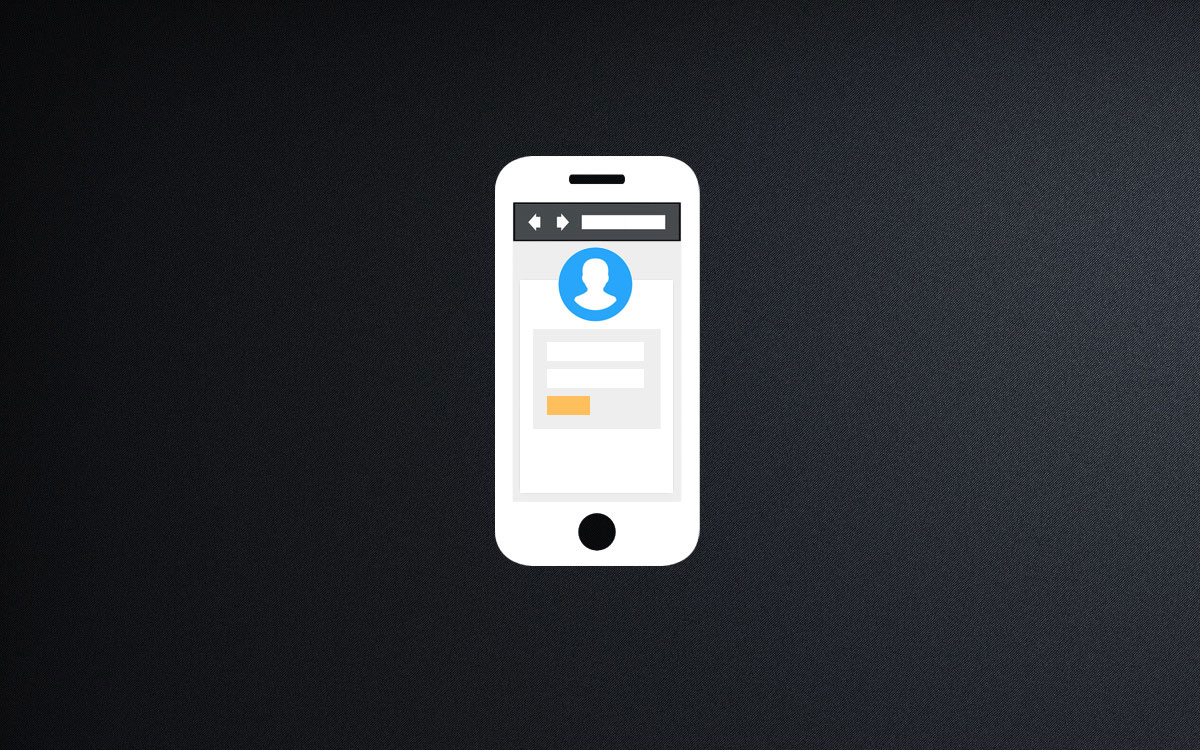
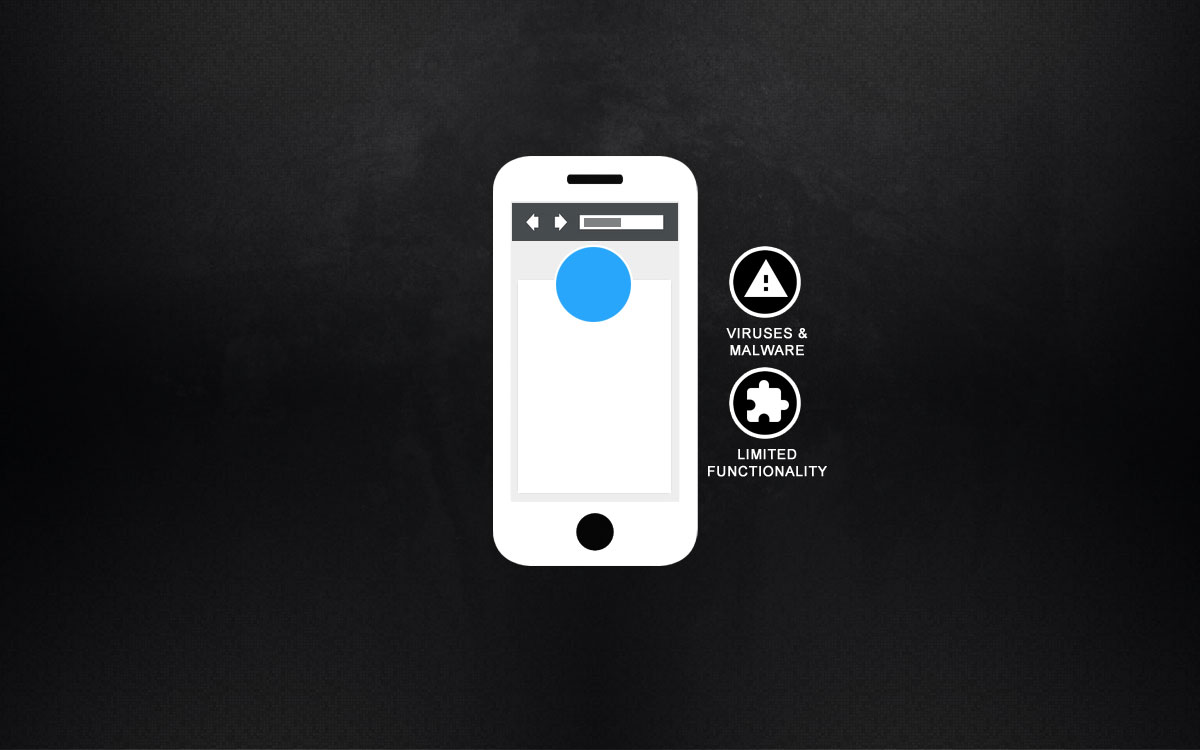
"How it works" slides are ready. Mobile styles added

diff --git a/index.html b/index.html
@@ -18,7 +18,7 @@
         <div class="cd-section" id="headers">
             <div class="header-3">
                 <nav class="navbar navbar-transparent navbar-absolute navbar-expand-lg">
-                    <div class="container col-sm-10">
+                    <div class="container col-sm-11">
                         <!-- Brand and toggle get grouped for better mobile display -->
                         <div class="navbar-translate">
                             <!-- <a class="navbar-brand" href="http://wrioos.com">WRIO Internet OS</a> -->
@@ -97,7 +97,7 @@
                                           <div class="col-md-12 ml-auto mr-auto">
                                               <div class="buttons carousel-control-next">
                                                   <a href="#carousel_ids" role="button" data-slide="next" class="btn btn-danger btn-lg">
-                                                      How web 2.0 works&nbsp;&nbsp;&nbsp;&nbsp;<i class="material-icons">build</i>
+                                                      How web 2.0 works&nbsp;&nbsp;&nbsp;&nbsp;<i class="material-icons">settings</i>
                                                   </a>
                                               </div>
                                           </div>
@@ -112,15 +112,17 @@
                                     <div class="row height_fix">
                                         <div class="col-sm-12 col-md-8 col-lg-6 mr-auto text-left">
                                             <h1 class="title">How web 2.0 works</h1>
-                                            <h2 class="title">1. Request to the website server</h2>
+                                            <h2 class="title">Request to the website server</h2>
                                             <h4><i class="material-icons">clear</i> Fishing alert<br />
-                                            <i class="material-icons">clear</i> Low trust online: scammers & spam</h4>
+                                            <i class="material-icons">clear</i> Low trust online: scammers & spam
+                                            <br />
+                                            <i class="material-icons">clear</i> Censorship, easy to block</h4>
                                         </div>
                                         <div class="bottom">
                                           <div class="col-md-12 ml-auto mr-auto">
                                               <div class="buttons carousel-control-next">
                                                   <a href="#carousel_ids" role="button" data-slide="next" class="btn btn-danger btn-lg">
-                                                      Next&nbsp;&nbsp;&nbsp;&nbsp;<i class="material-icons">build</i>
+                                                      Next&nbsp;&nbsp;&nbsp;&nbsp;<i class="material-icons">play_arrow</i>
                                                   </a>
                                               </div>
                                           </div>
@@ -135,7 +137,7 @@
                                     <div class="row height_fix">
                                         <div class="col-sm-12 col-md-8 col-lg-6 mr-auto text-left">
                                             <h1 class="title">How web 2.0 works</h1>
-                                            <h2 class="title">2. Loading HTML markup, styles and javascript</h2>
+                                            <h2 class="title">Loading HTML markup, styles and javascript</h2>
                                             <h4><i class="material-icons">clear</i> Insecure: viruses & malware. 71% of websites contain some malicious code were in fact legitimate websites that had been compromised in some way
                                             <br /><i class="material-icons">clear</i> Functionality limited by website owner</h4>
                                         </div>
@@ -143,7 +145,7 @@
                                           <div class="col-md-12 ml-auto mr-auto">
                                               <div class="buttons carousel-control-next">
                                                   <a href="#carousel_ids" role="button" data-slide="next" class="btn btn-danger btn-lg">
-                                                      Next&nbsp;&nbsp;&nbsp;&nbsp;<i class="material-icons">build</i>
+                                                      Next&nbsp;&nbsp;&nbsp;&nbsp;<i class="material-icons">play_arrow</i>
                                                   </a>
                                               </div>
                                           </div>
@@ -158,20 +160,18 @@
                                     <div class="row height_fix">
                                         <div class="col-sm-12 col-md-8 col-lg-6 mr-auto text-left">
                                             <h1 class="title">How web 2.0 works</h1>
-                                            <h2 class="title">3. Authentication</h2>
+                                            <h2 class="title">Authentication</h2>
                                             <h4>User data stored on the server
                                               <br>
                                               <i class="material-icons">clear</i> Hacking and leaking personal data risks
                                               <br />
-                                              <i class="material-icons">clear</i> Surveillance, no privacy
-                                              <br />
-                                              <i class="material-icons">clear</i> Censorship, easy to block</h4>
+                                              <i class="material-icons">clear</i> Surveillance, no privacy</h4>
                                         </div>
                                         <div class="bottom">
                                           <div class="col-md-12 ml-auto mr-auto">
                                               <div class="buttons carousel-control-next">
                                                   <a href="#carousel_ids" role="button" data-slide="next" class="btn btn-danger btn-lg">
-                                                      Next&nbsp;&nbsp;&nbsp;&nbsp;<i class="material-icons">build</i>
+                                                      Next&nbsp;&nbsp;&nbsp;&nbsp;<i class="material-icons">play_arrow</i>
                                                   </a>
                                               </div>
                                           </div>
@@ -186,7 +186,7 @@
                                     <div class="row height_fix">
                                         <div class="col-sm-12 col-md-8 col-lg-6 mr-auto text-left">
                                             <h1 class="title">How web 2.0 works</h1>
-                                            <h2 class="title">4. Getting data from database</h2>
+                                            <h2 class="title">Getting data from database</h2>
                                             <h4><i class="material-icons">clear</i> Website information isolation
                                             <br />
                                             <i class="material-icons icon-fix">clear</i> Unstructured data. Search engines have to <a href="https://en.wikipedia.org/wiki/Parsing" target="_blank">parse</a>
@@ -370,7 +370,7 @@
                             </div>
                         </div>
                         <div class="carousel-item embed-responsive-item">
-                            <div class="page-header header-filter" style="background: url('assets/img/6.jpg') center center;background-size:cover;">
+                            <div class="page-header header-filter" style="background: url('assets/img/team.jpg') center center;background-size:cover;">
                                 <div class="container">
                                     <div class="row height_fix">
                                         <div class="col-sm-12 col-md-8 col-lg-6 mr-auto text-left">

diff --git a/assets/css/landing.css b/assets/css/landing.css
@@ -16,8 +16,8 @@ body{font-size:14px}
   .carousel-inner ul a{color:#e89b35;font-size:1.125rem!important}
     .carousel-inner ul a:hover{text-decoration:underline}
   .carousel-inner .material-icons{font-size:1.125rem;font-weight:bold;position:relative;top:2px}
-  .carousel-inner .carousel-control-next .btn{margin-top:36px;padding:24px 36px}
-  #carousel_ids a{font-size:1.5em;z-index:99}
+  #carousel_ids a{z-index:99}
+  .bottom a.btn-lg{font-size:1.5em}
   #accordion .card-header{background:none;border:none;margin:8px 0;padding:8px}
     #accordion .card-header h6{margin:0;padding:5px 10px}
     #accordion .card-collapse .card-header a{color:#fff;text-transform:capitalize}
@@ -31,6 +31,8 @@ h4 a,h4 a:visited{font-size:1.2rem!important;color:#ffab00}
 h4 a:hover{color:#ffab00;text-decoration:underline}
 h5{color:#ccc}
 .page-header .title{font-weight:normal}
+.bottom a .material-icons{position:relative!important;top:-1px!important}
+.footer{padding:4px 0}
 
 @media all and (max-width: 992px) {
   h1{font-size:2em!important}
@@ -38,8 +40,8 @@ h5{color:#ccc}
   h4{font-size:1.1em!important}
   .carousel-inner ul{font-size:1.1em!important}
   .carousel-inner ul a{font-size:1em!important}
-  #carousel_ids a{font-size:1em}
-  .carousel-inner .carousel-control-next .btn{margin-top:18px;padding:12px 24px}
+  .bottom a.btn-lg{font-size:1.2em;line-height:2.4}
+  .carousel-inner .carousel-control-next .btn{padding:12px 24px}
   .navbar .navbar-nav .nav-item .nav-link{font-size:.9em}
   .navbar .navbar-nav .nav-item .nav-link:hover{color:#000}
   h4 a{font-size:1em!important}
@@ -48,6 +50,7 @@ h5{color:#ccc}
 }
 @media all and (max-width: 576px) {
     .bottom{left:45%;right:55%}
+    .header-filter:after{background:rgba(0,0,0,.5);background:linear-gradient(45deg,rgba(0,0,0,.5),rgba(0,0,0,.5));background:-webkit-linear-gradient(135deg,rgba(0,0,0,.5),rgba(0,0,0,.5))}
 }
 
 .height_fix{height:calc(100% - 200px);overflow-y:auto}
@@ -66,6 +69,31 @@ h5{color:#ccc}
 
 @media (min-width:280px){
 .page-header .container{padding:0 15%;max-width:100%}
+}
+
+
+/* scrollbar for mobile */
+::-webkit-scrollbar {
+    -webkit-appearance: none;
+}
+
+::-webkit-scrollbar:vertical {
+    width: 12px;
+}
+
+::-webkit-scrollbar:horizontal {
+    height: 12px;
+}
+
+::-webkit-scrollbar-thumb {
+    background-color: rgba(0, 0, 0, .5);
+    border-radius: 10px;
+    border: 2px solid #ffffff;
+}
+
+::-webkit-scrollbar-track {
+    border-radius: 10px;
+    background-color: #ffffff;
 }
 
 /* Bootstrap css */
